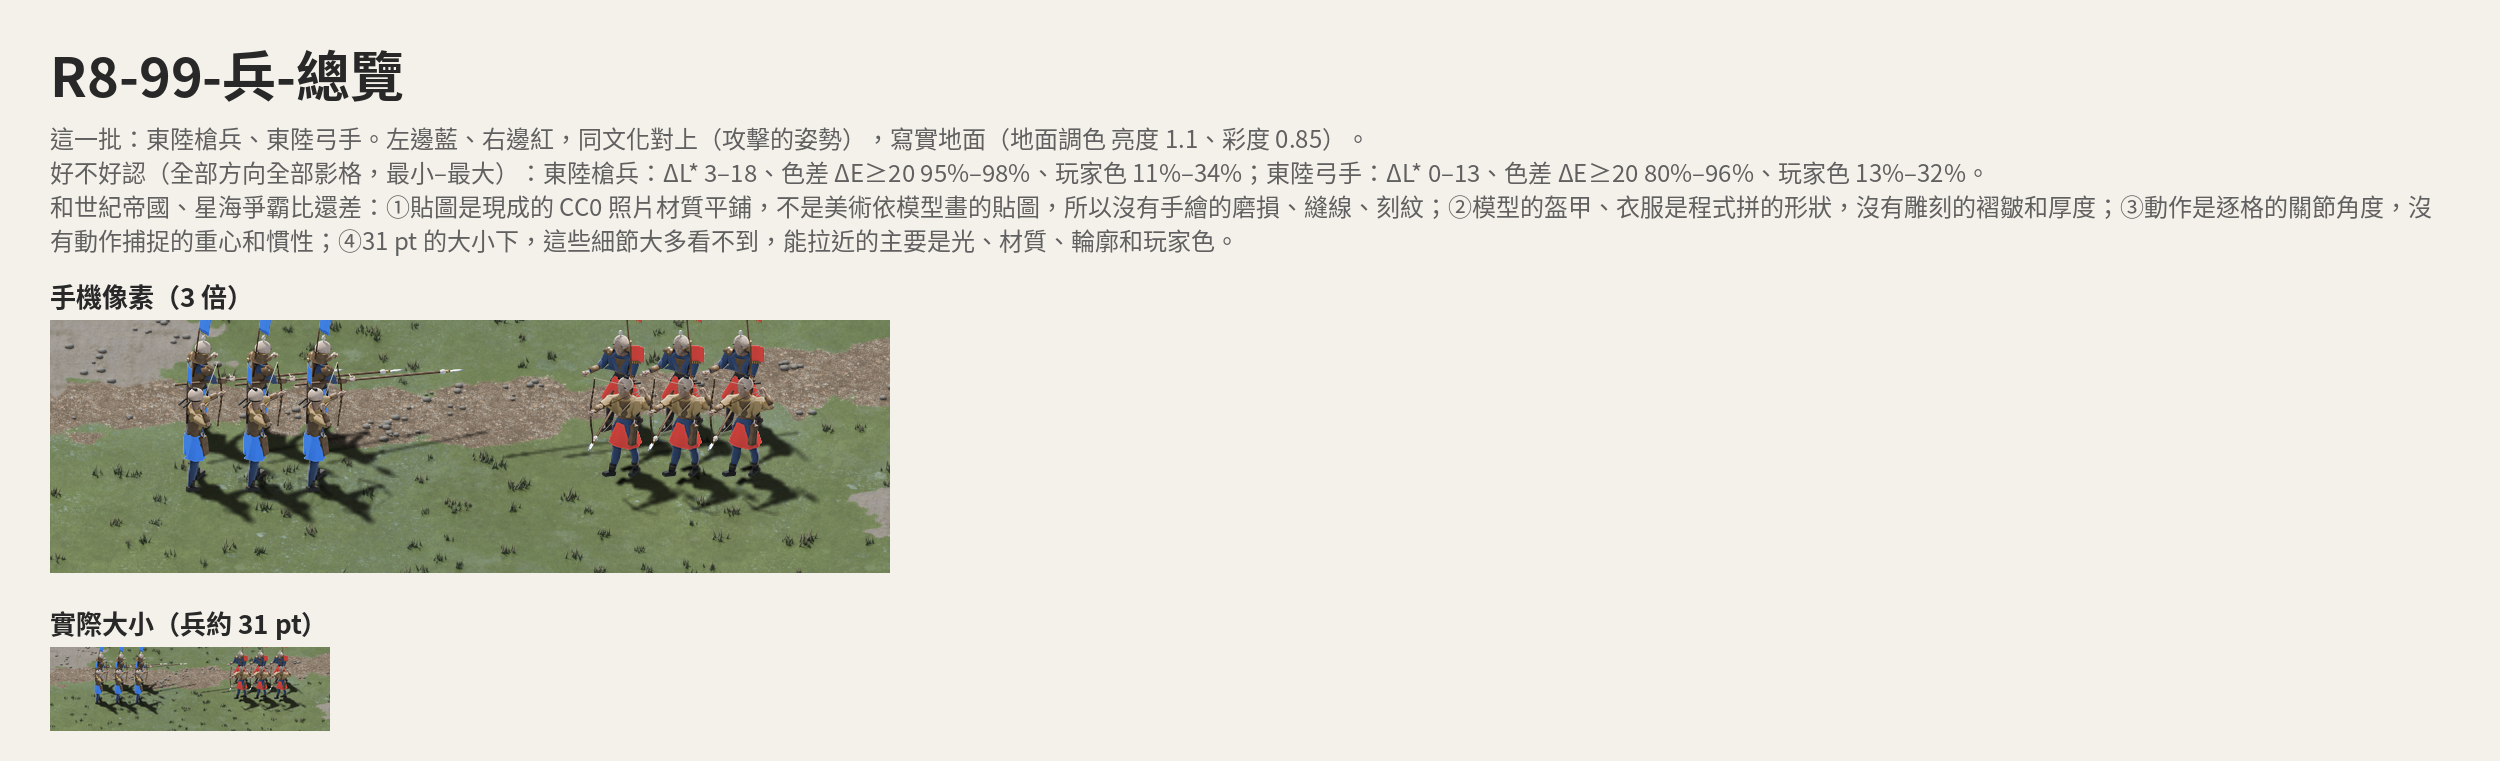
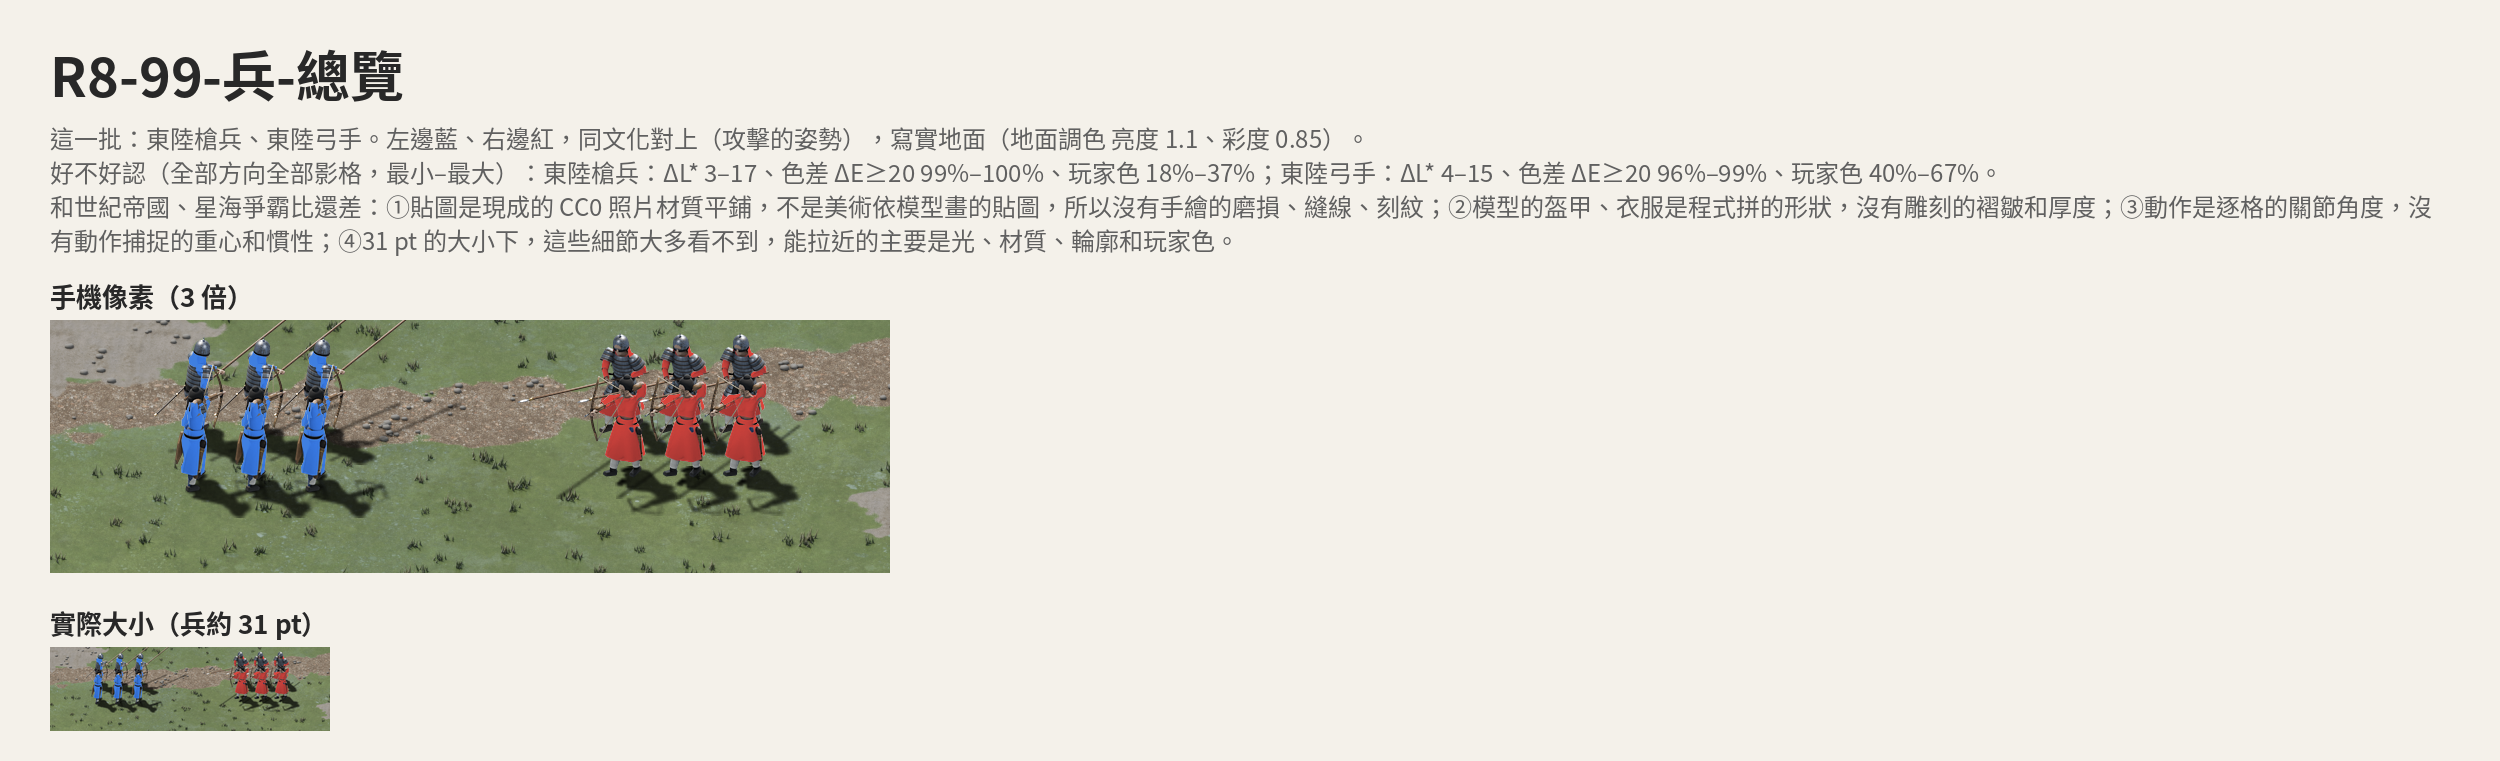
R8：東陸槍兵、弓手的新核准稿（唐末五代服裝、雙手持槍、拉滿弓；CI run 39481769831 的圖集），旁邊放參考圖和要點
- boards_r8：R8_REFS 指到 ceo 的考據資料夾時，每張稿加參考列（只用公有領域和 CC0 的 01、02、04、06），每條要點標證據等級（一手、二手、推論、設計選擇）
- 好不好認（288 格，藍紅各量）：槍兵 ΔE≥20 99–100%、玩家色 18–37%；弓手 96–99%、玩家色 41–67%
- 圖集：槍兵 x3 17.2 MB（之前 19.7）、x2 ASTC 2.06 MB；弓手 x3 10.5 MB（之前 11.8）、x2 ASTC 1.24 MB
- THIRD_PARTY_NOTICES：放在核准稿上的參考圖和授權（2026-10-21 在 Commons 核對過）；design/r8/README.md

diff --git a/design/r8/common/boards_r8.py b/design/r8/common/boards_r8.py
@@ -41,9 +41,58 @@ UNITS = {
     "siege_w": (10, "投石機", "西陸"), "mage_e": (11, "術士", "東陸"), "mage_w": (12, "晶術師", "西陸"),
 }
 WHAT = {
-    "spear_e": "東陸槍兵：MPFB 寫實人體（真人比例、手握住槍桿），札甲、尖盔、靛藍衣，玩家色是包住腰下一圈的裙甲和背旗。",
-    "bow_e": "東陸弓手（新兵種，東陸改拿弓）：弩手的東陸服裝（赭色長衣、漆背心、黑帽），左手一把東方反曲弓（1.25 m，弓梢反翹），"
-             "右腰箭袋；拉弓放箭沿用長弓兵核准的動作，弓弦跟著右手拉開、搭箭，放箭後箭由遊戲另外畫。玩家色是一圈裙子和背旗。",
+    "spear_e": "東陸槍兵（唐末五代的樣子，照 ceo 的考據筆記）：MPFB 寫實人體；札甲（一排排小甲片）、三層披膊、及膝腿裙，"
+               "碗形兜鍪加頓項，甲下圓領袍，行縢加靴，左腰直的橫刀；雙手持槍，紮槍由後手推。玩家色是袍子（袖子、袍腳）和頓項。",
+    "bow_e": "東陸弓手（唐末五代的樣子，照 ceo 的考據筆記）：MPFB 寫實人體；圓領缺胯袍、黑革帶、黑色軟幞頭，右腰有蓋的胡祿、"
+             "左腰弓袋，行縢加靴；角弓上下對稱、握中間。拉弓拉到臉頰，放箭時手往耳後甩；弓弦跟著右手，放箭後箭由遊戲另外畫。"
+             "玩家色是袍子。",
+}
+# the reference pictures beside each board (ceo's note, research/east-reference/: R8_REFS points there; only the
+# public-domain and CC0 ones, LICENSES.md: the CC BY-SA ones stay out of the repo and the pictures) and the points
+# taken from them, each with how well it is known: 一手 (period text, object or picture), 二手 (modern work), 推論
+# (inferred), 設計選擇 (ours)
+REFS = {
+    "spear_e": dict(
+        images=[
+            ("01-張議潮統軍出行圖-甲騎旗隊與樂舞.jpg", (1000, 880, 1560, 1260),
+             "圖 01　敦煌莫高窟 156 窟〈張議潮統軍出行圖〉局部（約 851–867 年）：甲騎的札甲畫成一排排橫條，兜鍪連頓項包住頭和後頸，"
+             "槍豎著拿。公有領域（PD-Art），Wikimedia Commons。"),
+            ("06-前蜀永陵-抬棺力士背面-兜鍪頓項.jpg", (900, 240, 1920, 1350),
+             "圖 06　前蜀王建墓（永陵，918 年）抬棺力士背面：碗形兜鍪，後面垂一大片頓項蓋住後頸到肩。"
+             "CC0，攝影 Gary Todd，Wikimedia Commons。"),
+            ("04-榆林窟25窟-中唐甲士-長牌與札甲.jpg", (384, 256, 1056, 1376),
+             "圖 04　榆林窟 25 窟（中唐，781–848 年）甲士：札甲的排數、披膊、腿裙一段一段分開。公有領域（PD-Art），Wikimedia Commons。"),
+        ],
+        points=[
+            "① 札甲：一排排小甲片用繩子串起來；甲身、三層披膊、及膝的腿裙前面開口。〔一手：圖 01、04，唐代甲片實物〕拿掉整片上漆的板甲和方方的肩板。",
+            "② 兜鍪加頓項：碗形鐵盔，頂上一顆小圓珠；後面和兩側垂頓項，蓋住後頸、耳朵和肩頭，臉露出來。〔一手：圖 06、04〕"
+            "頓項做成布、用玩家色，是設計選擇〔筆記：布或甲片都有〕。拿掉盔纓和三層階梯形的頸甲。",
+            "③ 甲下穿圓領袍：袖子、甲裙下的袍腳到小腿，兩側開衩。〔一手：《新唐書·車服志》「缺骻衫」〕"
+            "袍子用玩家色：一支部隊一個顏色合乎史實〔一手：李克用的「鴉軍」皆衣黑〕。",
+            "④ 雙手持槍：後手握在離槍尾 0.5 m，前手在槍桿上；紮槍由後手推，槍桿從前手裡滑過去。"
+            "〔推論：《太白陰經》只有兩成配盾；沒有找到畫雙手刺槍的圖〕",
+            "⑤ 槍全長 3 m，素木桿，細長的葉形槍頭，拿掉槍上的大纓。〔長度是設計選擇；一手：《唐六典》「木槍長，步兵用之」〕",
+            "⑥ 左腰掛直的橫刀，環首。〔一手：《唐六典》「橫刀，佩刀也，兵士所佩」；唐代環首刀實物〕",
+            "⑦ 小腿綁行縢，穿靴。〔一手：《新唐書·兵志》、《舊唐書·輿服志》〕　⑧ 拿掉背旗：旗由旗手拿。〔筆記〕",
+        ]),
+    "bow_e": dict(
+        images=[
+            ("01-張議潮統軍出行圖-甲騎旗隊與樂舞.jpg", (0, 450, 560, 960),
+             "圖 01　同一幅〈出行圖〉局部：沒穿甲的隨行和樂隊，圓領長袍、頭包黑色幞頭（壁畫很小，細節看不清）。"
+             "公有領域（PD-Art），Wikimedia Commons。"),
+            ("02-敦煌晚唐壁畫-持長牌步兵出城-出處待查.jpg", (400, 640, 654, 992),
+             "圖 02　敦煌晚唐壁畫（哪一窟待查，只當晚唐敦煌畫風參考）：出城的隊伍，圓領長袍、黑色幞頭。公有領域（PD-Art），Wikimedia Commons。"),
+        ],
+        points=[
+            "① 角弓：上下對稱，握在正中間；彎的那段短，弓梢長而直、往前翹；上弦後全長 1.22 m。"
+            "〔二手：Selby；長度是推論，筆記建議 1.2–1.4 m〕這批參考圖裡沒有清楚的唐五代弓，形狀照文字做。",
+            "② 拉弓：右手拉到臉頰、手肘抬在後面，放箭時手往耳後甩；手指勾弦，不做扳指。〔一手：《射經》的「中國法」；動作是設計〕",
+            "③ 圓領缺胯袍到小腿，兩側開衩，黑革帶。〔一手：《新唐書·車服志》；圖 01、02〕袍子用玩家色（同槍兵）。",
+            "④ 黑色軟幞頭：包住頭頂的髻，後面垂兩條軟腳。〔一手：《新唐書·車服志》、《夢溪筆談》、《宋史·輿服志》：五代是軟腳或略硬的短腳〕"
+            "不戴紅抹額：紅色會和紅方的玩家色混在一起。",
+            "⑤ 右腰有蓋的胡祿（看不到箭），左腰空的弓袋。〔一手：《新唐書·兵志》「弓一，矢三十，胡祿」；掛法是二手：Dwyer〕",
+            "⑥ 小腿綁行縢，穿靴。　⑦ 拿掉：漆背心、黑圓帽、背旗、開口的箭袋。",
+        ]),
 }
 # what is still missing next to Age of Empires and StarCraft (honest; on every board)
 GAP = ("和世紀帝國、星海爭霸比還差：①貼圖是現成的 CC0 照片材質平鋪，不是美術依模型畫的貼圖，所以沒有手繪的磨損、縫線、刻紋；"
@@ -212,6 +261,41 @@ def faceoff(a, unit, bg_full):
     return img.crop((x0, y0, x0 + int(15.0 * PPM), y1)).convert("RGB")
 
 
+def refrow(unit, W):
+    """The reference pictures and the points (REFS), or None without R8_REFS."""
+    import os
+    ref = REFS.get(unit)
+    folder = os.environ.get("R8_REFS")
+    if not ref or not folder:
+        return None
+    probe = ImageDraw.Draw(Image.new("RGB", (8, 8)))
+    tiles = []
+    for name, box, caption in ref["images"]:
+        im = Image.open(Path(folder) / name).convert("RGB").crop(box)
+        h = 560
+        im = im.resize((round(im.width * h / im.height), h), Image.LANCZOS)
+        w = max(im.width, 420)
+        th = boards.wrap(probe, 0, 0, caption, w, size=22) + 10
+        tile = Image.new("RGB", (w, h + th + 12), boards.BG)
+        tile.paste(im, (0, 0))
+        boards.wrap(ImageDraw.Draw(tile), 0, h + 12, caption, w, size=22)
+        tiles.append(tile)
+    text = "\n".join(ref["points"])
+    th = boards.wrap(probe, 0, 0, text, W - 2 * boards.M, size=26) + 20
+    gap = 30
+    inner = Image.new("RGB", (sum(t.width for t in tiles) + gap * (len(tiles) - 1), max(t.height for t in tiles)),
+                      boards.BG)
+    x = 0
+    for t in tiles:
+        inner.paste(t, (x, 0))
+        x += t.width + gap
+    top = boards.row([boards.captioned(inner, "參考（文物和壁畫，只當參考：照著重新做 3D，圖不放進遊戲）", 26)], W)
+    out = Image.new("RGB", (W, top.height + th + 20), boards.BG)
+    out.paste(top, (0, 0))
+    boards.wrap(ImageDraw.Draw(out), boards.M, top.height, text, W - 2 * boards.M, size=26, fill=boards.INK)
+    return out
+
+
 def board(unit, a, nums):
     n, name, side = UNITS[unit]
     label = f"R8-{n:02d}-{name}-{side}"
@@ -226,6 +310,9 @@ def board(unit, a, nums):
             "上：8 個方向（idle，3 倍）；中：每個動作（朝向 1，3 倍）；下：同文化藍紅對上（3 倍和實際大小）、8 個方向實際大小。")
     W = 2500
     parts = [boards.header(W, label + "-mobile", text)]
+    refs = refrow(unit, W)
+    if refs is not None:
+        parts.append(refs)
     parts.append(boards.row([boards.captioned(strip([cell(a, unit, "idle", f, 0, "blue", bg) for f in FACINGS]),
                                               "8 個方向（藍）", 24)], W))
     for anim, d in a.m["anims"].items():

diff --git a/design/r8/README.md b/design/r8/README.md
@@ -1,0 +1,27 @@
+# R8 寫實整套核准稿（D-093）
+
+brief：`docs/briefs/2026-10-r8-realism-ui.md`。使用者選的 R7 版本 2（MPFB 寫實人體、CC0 材質、寫實打光和地面），12 種兵先出核准稿。
+
+## 程式
+
+| 檔案 | 做什麼 |
+|---|---|
+| `blender/r8.py` | 正式流程用 `R7_VERSION=8` 時加上的東西：槍兵雙手持槍（`before_extend`，在 `anims.extend` 之前，倒下的第一格也是雙手）、弓弦跟著右手、拉弓拉到臉頰、輪廓光 |
+| `blender/east_r8.py` | 東陸槍兵、弓手的唐末五代服裝（照 ceo 的考據筆記）：札甲材質、兜鍪和頓項、圓領缺胯袍、幞頭、胡祿、角弓 |
+| `common/boards_r8.py` | 每種兵一張核准稿、動作 GIF、好不好認的量測（全部方向全部影格）；`R8_REFS` 有設定時，旁邊放參考圖和要點 |
+
+## 參考圖
+
+- 東陸的考據筆記在 research 工作區（`research/east-reference/notes.md`，圖 01–15，授權 `LICENSES.md`），不在這個 repo。
+- 核准稿上只放公有領域和 CC0 的圖（01、02、04、06），授權記在 `../../THIRD_PARTY_NOTICES.md`。CC BY-SA 的圖只拿來看。
+- 每條要點標證據等級：一手（當時的文獻、文物、壁畫）、二手（現代研究）、推論、設計選擇。
+
+## 怎麼重做
+
+```bash
+# CI：design-render，round r7，targets ["v8-spear_e","v8-bow_e"]；下載 r7-v8-<兵> 的 artifact
+R8_REFS=<research>/east-reference python3 design/r8/common/boards_r8.py \
+  spear_e <artifact>/r7v8/prod/spear_e/atlas_x3 bow_e <artifact>/r7v8/prod/bow_e/atlas_x3
+```
+
+本機試做用 `design/production/blender/render_prod.py --target <兵> --preview`（每個動作第一格，低取樣），全部影格交給 CI。`R8_DEBUG=1` 會印出看得到的部件、MPFB 頭和身體的大小（做頭盔、衣服的尺寸依據）。

diff --git a/THIRD_PARTY_NOTICES.md b/THIRD_PARTY_NOTICES.md
@@ -13,6 +13,17 @@
 
 MPFB 的程式本身是 GPLv3。我們只在 Blender 裡把它當工具用，沒有散布它的程式，遊戲裡也不含它的程式。下載網址：https://extensions.blender.org/add-ons/mpfb/，檔案 sha256 c075b3e9…2a2dad，和官方網址上的一致。
 
+## 只當參考、放在核准稿上的圖
+
+R8 東陸槍兵、弓手的核准稿（`design/r8/out/R8-03-*`、`R8-05-*`）旁邊放了幾張裁切過的參考圖，給使用者對照。美術是照著重新做 3D，圖本身不放進遊戲。原檔不進 repo（ceo 的考據資料夾 `research/east-reference/`，授權清單 `LICENSES.md`）。CC BY-SA 的圖（07、08、09、13、14、15）只拿來看，不放進 repo，也不放進核准稿。
+
+| 圖 | 來源頁 | 授權 | 作者 | 讀授權的日期 |
+|---|---|---|---|---|
+| 01 敦煌莫高窟 156 窟〈張議潮統軍出行圖〉（裁兩處） | https://commons.wikimedia.org/wiki/File:Mogao_Cave_156_battle.jpg | 公有領域（PD-Art） | 晚唐佚名畫工；照片 茹遂初，1978 | 2026-10-21 |
+| 02 敦煌晚唐壁畫，持長牌步兵出城（哪一窟待查） | https://commons.wikimedia.org/wiki/File:Dunhuang_Zhang_Yichao_departure_02.jpg | 公有領域（PD-Art） | 佚名畫工 | 2026-10-21 |
+| 04 榆林窟 25 窟甲士 | https://commons.wikimedia.org/wiki/File:Yulin_caves,_Tang_cavalryman.jpg | 公有領域（PD-Art） | 9 世紀佚名畫工 | 2026-10-21 |
+| 06 前蜀王建墓抬棺力士背面 | https://commons.wikimedia.org/wiki/File:Wang_Jian_Royal_Tomb_(13944716273).jpg | CC0 1.0 | Gary Todd | 2026-10-21 |
+
 ## 只做測試、不進任何公開發布的
 
 | 工具 | 用在哪 | 授權與限制 | 授權原文 | 讀授權的日期 |
